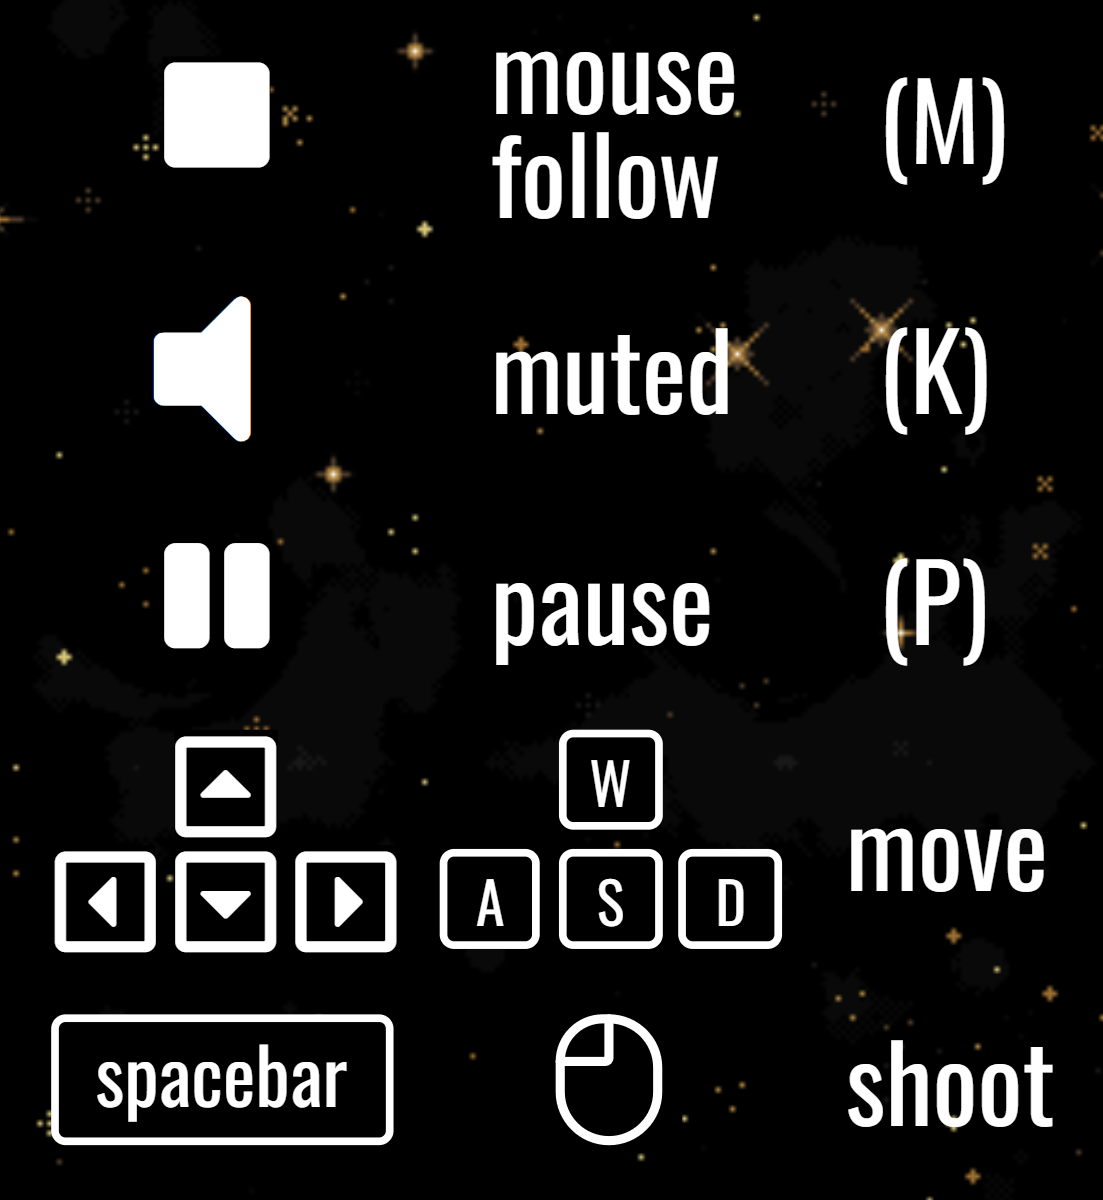
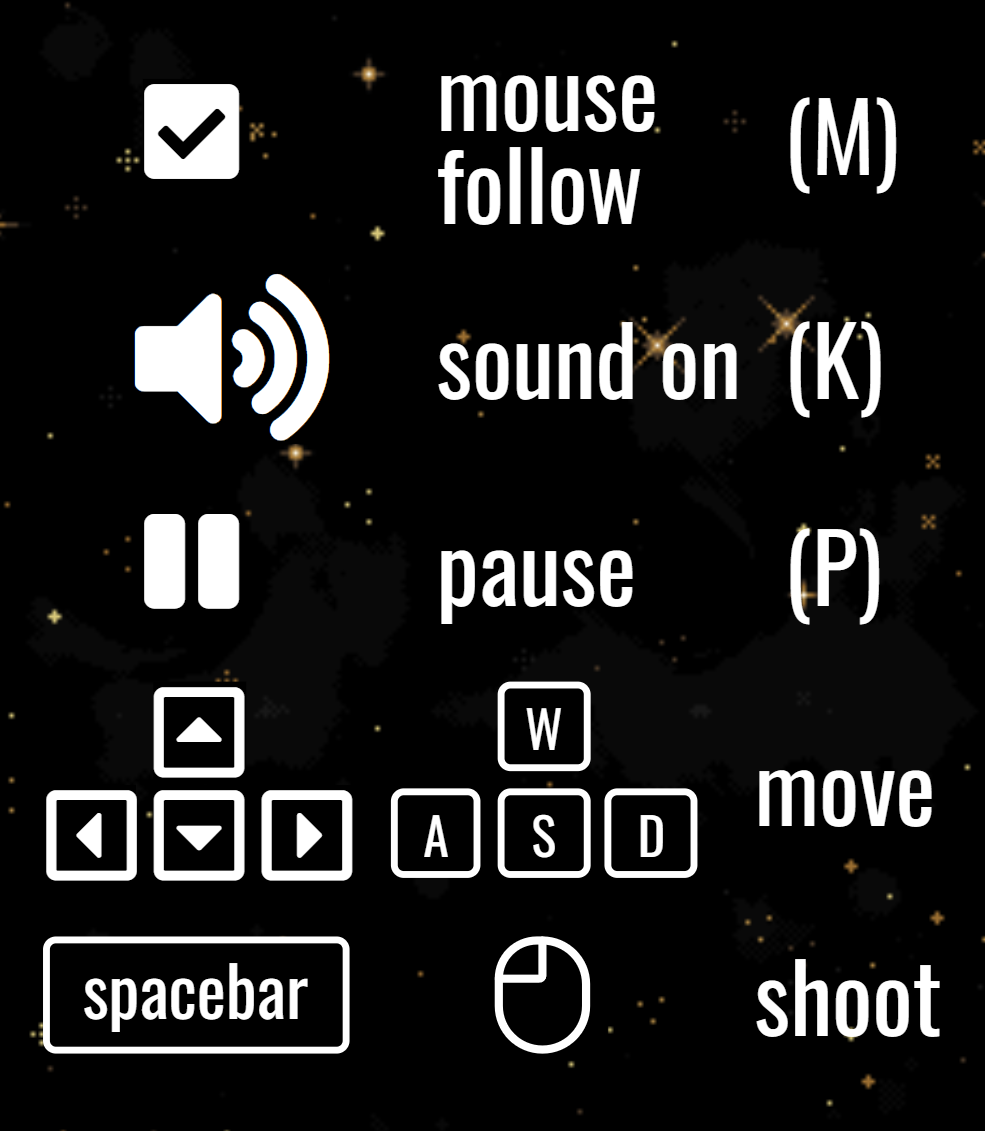
update readme

diff --git a/README.md b/README.md
@@ -18,12 +18,23 @@ It's game over if the player loses all their health points (HP) before defeating
 
 ## Instructions
 
-Controls are simply arrow keys (or WASD) to move in any direction, spacebar (or left click) to shoot (can be held down to continously shoot).
+Controls are simply:
 
-Setting options include a toggle mute, pause, and mouse/touch follow mode.
+- arrow keys or WASD to move in any direction
+- spacebar or left click to shoot (can be held down to continously shoot)
 
-The player ship will automatically follow a mouse or touch point if follow mode is enabled.
-Touch follow is automatically enabled at the start if a touch screen device is detected.
+Setting options include:
+
+- toggle mute
+- pause
+- mouse/touch follow mode
+
+Playable on touch screen mobile devices when touch follow is enabled.  
+Touch follow is automatically enabled at the start if a touch screen device is detected.  
+Control everything with just a single finger!
+
+- move finger around the screen to move the ship.
+- continously shoot while touching the screen.
 
 <img src="./src/assets/screenshots/controls.png" height="300">
 
